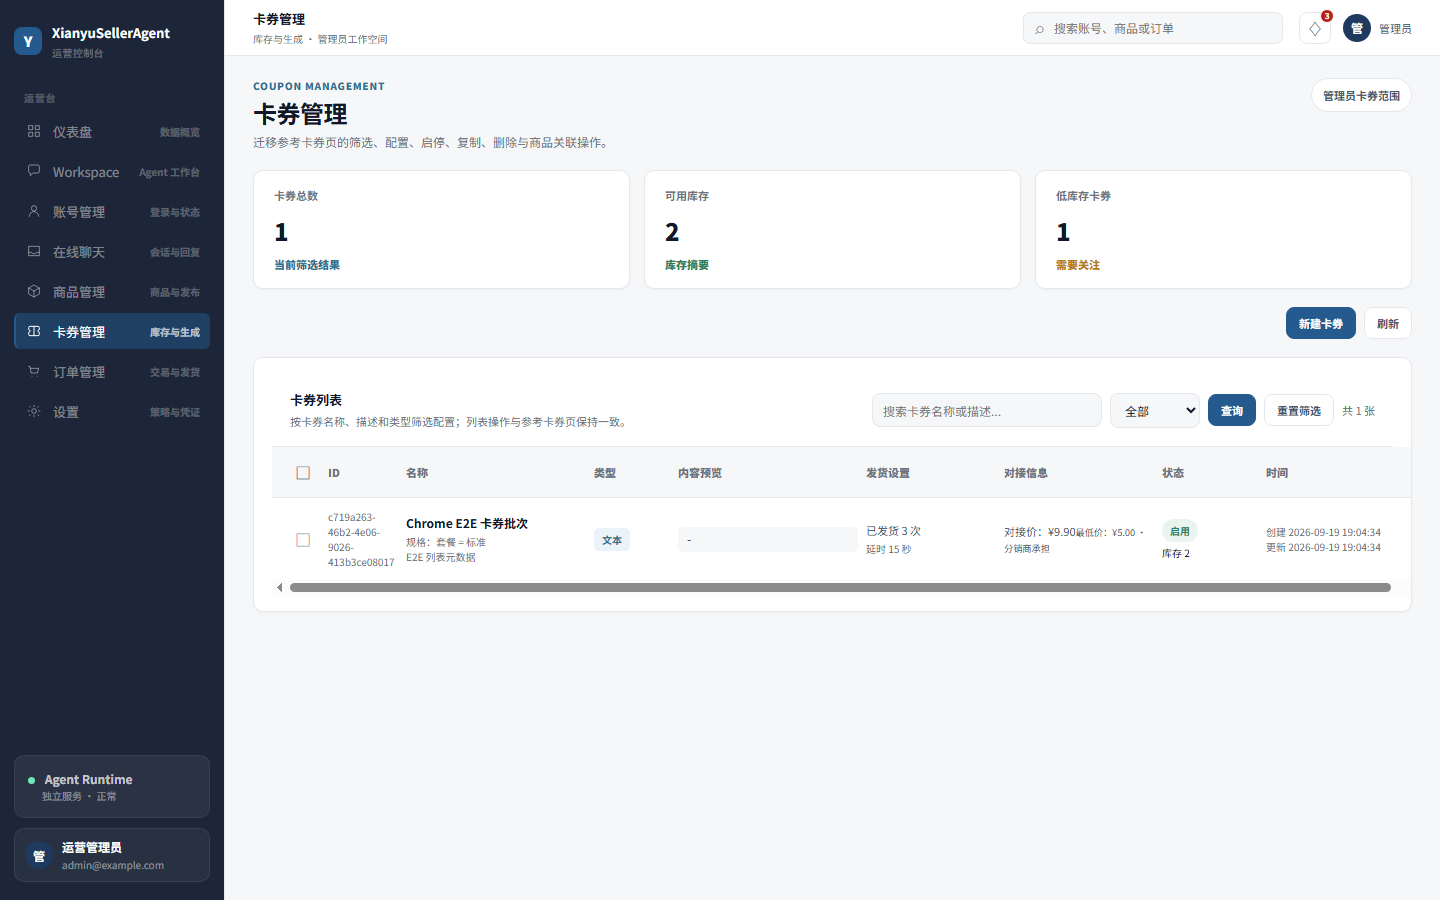
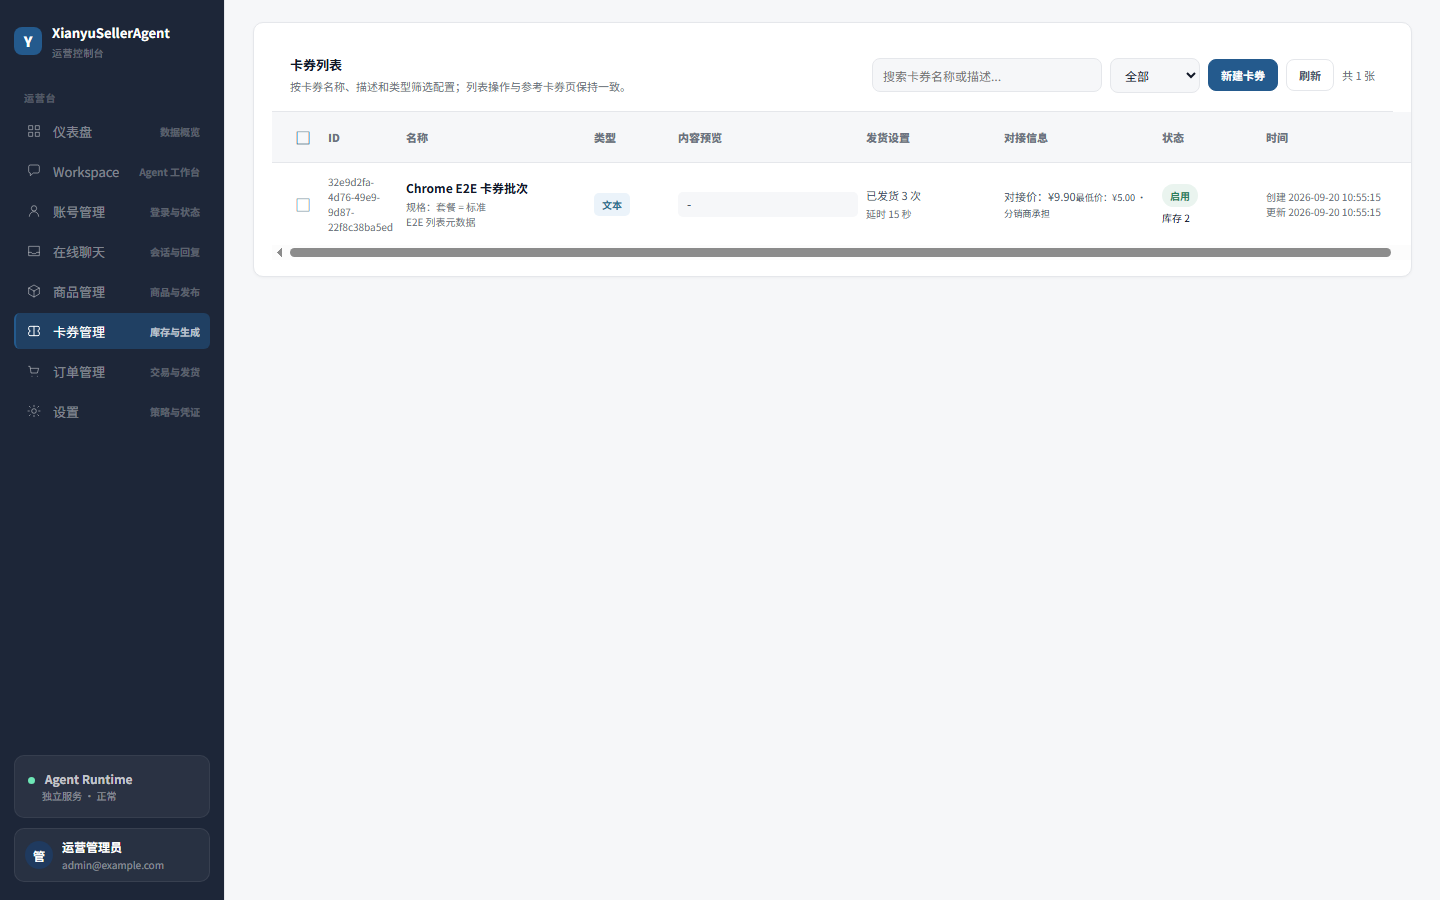
fix(卡券): 调整卡券列表工具栏与页面操作布局

diff --git a/apps/web/src/features/coupons/components/CouponsPage.tsx b/apps/web/src/features/coupons/components/CouponsPage.tsx
@@ -17,8 +17,6 @@ export function CouponsPage({ api: providedApi, productsApi: providedProductsApi
   const api = useMemo(() => providedApi ?? createMockCouponsApi(), [providedApi]);
   const productsApi = useMemo(() => providedProductsApi ?? createMockProductsApi(), [providedProductsApi]);
   const controller = useCouponsController({ api });
-  const [draftKeyword, setDraftKeyword] = useState('');
-  const [draftPurpose, setDraftPurpose] = useState<CouponBatchVM['purpose'] | 'all'>('all');
   const [selectedIds, setSelectedIds] = useState<Set<string>>(new Set());
   const [editor, setEditor] = useState<{ mode: 'create' | 'edit' | 'copy'; batch?: CouponBatchVM } | null>(null);
   const [relationBatch, setRelationBatch] = useState<CouponBatchVM | null>(null);
@@ -26,18 +24,13 @@ export function CouponsPage({ api: providedApi, productsApi: providedProductsApi
   const [imagePreview, setImagePreview] = useState<string | null>(null);
   const batches = controller.state.data?.items ?? [];
   const total = controller.state.data?.total ?? 0;
-  const available = batches.reduce((sum, batch) => sum + batch.availableCount, 0);
-  const lowStock = batches.filter((batch) => batch.stockAlert === 'low_stock').length;
-  const search = () => { controller.setFilters((previous) => ({ ...previous, keyword: draftKeyword.trim() || undefined, purpose: draftPurpose, page: 1 })); setSelectedIds(new Set()); };
-  const reset = () => { setDraftKeyword(''); setDraftPurpose('all'); controller.setFilters((previous) => ({ ...previous, keyword: undefined, purpose: 'all', page: 1 })); setSelectedIds(new Set()); };
   const openEdit = async (batch: CouponBatchVM) => { const detail = await api.getDetail(batch.batchId); setEditor({ mode: 'edit', batch: detail }); };
   const openCopy = async (batch: CouponBatchVM) => { const detail = await api.getDetail(batch.batchId); setEditor({ mode: 'copy', batch: detail }); };
   const openRelation = async (batchId: string, readonly = false) => { const detail = await api.getDetail(batchId); setRelationReadonly(readonly); setRelationBatch(detail); };
   const saveRelation = async (productIds: string[], initialIds: string[]) => { if (!relationBatch) return; const next = new Set(productIds); for (const productId of initialIds) if (!next.has(productId)) await controller.unbindBatch(relationBatch.batchId, productId); for (const productId of productIds) if (!initialIds.includes(productId)) await controller.bindBatch(relationBatch.batchId, productId); const detail = await api.getDetail(relationBatch.batchId); setRelationBatch(detail); setRelationReadonly(false); };
+  const bulkActions = selectedIds.size > 0 && <div className="coupons-bulk-actions">{<button className="btn danger" type="button" onClick={() => { if (window.confirm(`确认删除选中的 ${selectedIds.size} 张卡券？`)) void controller.batchDelete(Array.from(selectedIds)).then(() => setSelectedIds(new Set())); }}>删除选中 ({selectedIds.size})</button>}{selectedIds.size === 1 && <button className="btn ghost" type="button" onClick={() => { const batchId = Array.from(selectedIds)[0]; if (batchId) void openRelation(batchId); }}>关联商品</button>}</div>;
   return <section className="page-stack coupons-domain" data-coupons-domain>
-    <div className="kpi-grid three coupons-kpis"><article className="card kpi-card"><div className="kpi-label">卡券总数</div><div className="kpi-value">{total}</div><div className="kpi-delta"><span className="tone-info">当前筛选结果</span></div></article><article className="card kpi-card"><div className="kpi-label">可用库存</div><div className="kpi-value">{available}</div><div className="kpi-delta"><span className="tone-ok">库存摘要</span></div></article><article className="card kpi-card"><div className="kpi-label">低库存卡券</div><div className="kpi-value">{lowStock}</div><div className="kpi-delta"><span className={lowStock ? 'tone-warn' : 'tone-ok'}>{lowStock ? '需要关注' : '暂无告警'}</span></div></article></div>
-    <div className="coupons-page-actions"><div className="coupons-bulk-actions">{selectedIds.size > 0 && <button className="btn danger" type="button" onClick={() => { if (window.confirm(`确认删除选中的 ${selectedIds.size} 张卡券？`)) void controller.batchDelete(Array.from(selectedIds)).then(() => setSelectedIds(new Set())); }}>删除选中 ({selectedIds.size})</button>}{selectedIds.size === 1 && <button className="btn ghost" type="button" onClick={() => { const batchId = Array.from(selectedIds)[0]; if (batchId) void openRelation(batchId); }}>关联商品</button>}</div><div className="coupons-page-actions-right"><button className="btn primary" type="button" onClick={() => setEditor({ mode: 'create' })}>新建卡券</button><button className="btn ghost" type="button" onClick={() => void controller.reload()} disabled={controller.state.phase === 'loading'}>刷新</button></div></div>
-    <article className="card panel coupons-panel"><CouponToolbar filters={{ ...controller.filters, keyword: draftKeyword, purpose: draftPurpose }} phase={controller.state.phase} total={total} onKeywordChange={setDraftKeyword} onPurposeChange={setDraftPurpose} onSearch={search} onReset={reset} />{controller.state.phase === 'success' && <CouponBatchTable batches={batches} selectedIds={selectedIds} onSelect={(batchId) => setSelectedIds((previous) => { const next = new Set(previous); if (next.has(batchId)) next.delete(batchId); else next.add(batchId); return next; })} onSelectAll={() => setSelectedIds((previous) => batches.every((batch) => previous.has(batch.batchId)) ? new Set() : new Set(batches.map((batch) => batch.batchId)))} onOpen={controller.openBatch} onEdit={(batch) => void openEdit(batch)} onCopy={(batch) => void openCopy(batch)} onBind={(batchId) => void openRelation(batchId)} onToggle={(batch) => { if (batch.status === 'voided') return; void controller.updateBatch(batch.batchId, { status: batch.status === 'active' ? 'paused' : 'active' }); }} onDelete={(batchId) => { if (window.confirm('确认删除该卡券？删除后保留审计历史。')) void controller.deleteBatch(batchId); }} onImagePreview={setImagePreview} />}<CouponListStateView phase={controller.state.phase} error={controller.state.error} onRetry={controller.reload} /></article>
+    <article className="card panel coupons-panel"><CouponToolbar filters={controller.filters} phase={controller.state.phase} total={total} onKeywordChange={(keyword) => { controller.setKeyword(keyword); setSelectedIds(new Set()); }} onPurposeChange={(purpose) => { controller.setFilters((previous) => ({ ...previous, purpose, page: 1 })); setSelectedIds(new Set()); }} onCreate={() => setEditor({ mode: 'create' })} onRefresh={() => void controller.reload()} bulkActions={bulkActions} />{controller.state.phase === 'success' && <CouponBatchTable batches={batches} selectedIds={selectedIds} onSelect={(batchId) => setSelectedIds((previous) => { const next = new Set(previous); if (next.has(batchId)) next.delete(batchId); else next.add(batchId); return next; })} onSelectAll={() => setSelectedIds((previous) => batches.every((batch) => previous.has(batch.batchId)) ? new Set() : new Set(batches.map((batch) => batch.batchId)))} onOpen={controller.openBatch} onEdit={(batch) => void openEdit(batch)} onCopy={(batch) => void openCopy(batch)} onBind={(batchId) => void openRelation(batchId)} onToggle={(batch) => { if (batch.status === 'voided') return; void controller.updateBatch(batch.batchId, { status: batch.status === 'active' ? 'paused' : 'active' }); }} onDelete={(batchId) => { if (window.confirm('确认删除该卡券？删除后保留审计历史。')) void controller.deleteBatch(batchId); }} onImagePreview={setImagePreview} />}<CouponListStateView phase={controller.state.phase} error={controller.state.error} onRetry={controller.reload} /></article>
     <CouponDrawer state={controller.detail} content={controller.content} mutation={controller.mutation} onClose={controller.closeBatch} onRetry={() => controller.detail.batchId && controller.openBatch(controller.detail.batchId)} onImport={async (items) => { if (controller.detail.batchId) await controller.importItems(controller.detail.batchId, items); }} onBind={async (productId) => { if (controller.detail.batchId) await controller.bindBatch(controller.detail.batchId, productId); }} onVoid={async () => { if (controller.detail.batchId) await controller.voidBatch(controller.detail.batchId); }} onPreview={controller.previewContent} />
     {editor && <CouponCreateModal mode={editor.mode} batch={editor.batch} submitting={controller.mutation.phase === 'submitting'} onClose={() => setEditor(null)} onSubmit={async (input) => { if (editor.mode === 'edit' && editor.batch) await controller.updateBatch(editor.batch.batchId, input); else await controller.createBatch(input as Parameters<typeof controller.createBatch>[0]); }} />}
     {relationBatch && <CouponRelationModal batch={relationBatch} productsApi={productsApi} readonly={relationReadonly} submitting={controller.mutation.phase === 'submitting'} onClose={() => { setRelationBatch(null); setRelationReadonly(false); }} onSave={saveRelation} />}

diff --git a/apps/web/src/features/coupons/components/coupons.css b/apps/web/src/features/coupons/components/coupons.css
@@ -1,6 +1,5 @@
 .coupons-domain { min-width: 0; }
 .coupons-domain-scope { align-self: flex-start; padding: 8px 11px; border: 1px solid var(--border); border-radius: 999px; background: #fff; color: var(--muted); font-size: 11px; font-weight: 700; }
-.coupons-kpis { grid-template-columns: repeat(3, minmax(0, 1fr)); }
 .coupons-panel { padding: 0; overflow: hidden; }
 .coupons-copy-notice { margin: 10px 18px 0; padding: 8px 10px; border-radius: 7px; background: var(--success-bg); color: var(--success); font-size: 11px; }
 .coupons-toolbar { display: flex; justify-content: space-between; gap: 16px; align-items: center; padding: 16px 18px; border-bottom: 1px solid var(--border); }
@@ -41,8 +40,7 @@
 .coupons-action-icon:hover { background: var(--soft-blue-bg); }
 .coupons-action-icon.danger { color: var(--danger); }
 .coupons-action-icon svg { width: 15px; height: 15px; fill: none; stroke: currentColor; stroke-width: 1.6; stroke-linecap: round; stroke-linejoin: round; }
-.coupons-page-actions { display: flex; justify-content: space-between; align-items: center; gap: 12px; }
-.coupons-bulk-actions, .coupons-page-actions-right { display: flex; align-items: center; gap: 8px; }
+.coupons-bulk-actions { display: flex; align-items: center; gap: 8px; }
 .coupons-state { display: grid; place-items: center; gap: 6px; min-height: 220px; padding: 28px; color: var(--sub); text-align: center; }
 .coupons-state strong, .coupons-detail-state strong { color: var(--text); font-size: 13px; }
 .coupons-state span, .coupons-detail-state span { font-size: 11px; }
@@ -119,4 +117,4 @@
 .coupons-image-preview { position: relative; max-width: min(92vw, 900px); max-height: 92vh; padding: 12px; }
 .coupons-image-preview .icon-button { position: absolute; top: 8px; right: 8px; z-index: 1; }
 .coupons-image-preview img { display: block; max-width: 86vw; max-height: 84vh; object-fit: contain; border-radius: 8px; }
-@media (max-width: 900px) { .coupons-toolbar { align-items: stretch; flex-direction: column; } .coupons-toolbar-actions { justify-content: stretch; } .coupons-search { flex: 1; } .coupons-search input { width: 100%; } .coupons-kpis { grid-template-columns: 1fr; } .coupons-row { min-width: 1440px; } .coupons-table { min-width: 0; overflow-x: auto; } .coupons-page-actions { align-items: stretch; flex-direction: column; } .coupons-page-actions-right, .coupons-bulk-actions { justify-content: flex-start; flex-wrap: wrap; } .coupons-form-grid { grid-template-columns: 1fr; } .coupons-form-full { grid-column: auto; } .coupons-modal-backdrop { align-items: end; padding: 0; } .coupons-modal { width: 100%; border-radius: 14px 14px 0 0; max-height: 92vh; overflow-y: auto; } .coupons-relation-grid { grid-template-columns: 1fr; max-height: 62vh; overflow-y: auto; } .coupons-relation-pane { min-height: 280px; border-right: 0; border-bottom: 1px solid var(--border); } }
+@media (max-width: 900px) { .coupons-toolbar { align-items: stretch; flex-direction: column; } .coupons-toolbar-actions { justify-content: stretch; } .coupons-search { flex: 1; } .coupons-search input { width: 100%; } .coupons-row { min-width: 1440px; } .coupons-table { min-width: 0; overflow-x: auto; } .coupons-bulk-actions { justify-content: flex-start; flex-wrap: wrap; } .coupons-form-grid { grid-template-columns: 1fr; } .coupons-form-full { grid-column: auto; } .coupons-modal-backdrop { align-items: end; padding: 0; } .coupons-modal { width: 100%; border-radius: 14px 14px 0 0; max-height: 92vh; overflow-y: auto; } .coupons-relation-grid { grid-template-columns: 1fr; max-height: 62vh; overflow-y: auto; } .coupons-relation-pane { min-height: 280px; border-right: 0; border-bottom: 1px solid var(--border); } }

diff --git a/apps/web/src/features/coupons/components/CouponToolbar.tsx b/apps/web/src/features/coupons/components/CouponToolbar.tsx
@@ -1,3 +1,4 @@
+import type { ReactNode } from 'react';
 import type { CouponBatchFilters, CouponBatchVM, CouponsLoadPhase } from '../types';
 
 const types: Array<{ value: CouponBatchVM['purpose'] | 'all'; label: string }> = [
@@ -8,14 +9,15 @@ const types: Array<{ value: CouponBatchVM['purpose'] | 'all'; label: string }> =
   { value: 'image', label: '图片' },
 ];
 
-export function CouponToolbar({ filters, phase, total, onKeywordChange, onPurposeChange, onSearch, onReset }: { filters: CouponBatchFilters; phase: CouponsLoadPhase; total: number; onKeywordChange: (value: string) => void; onPurposeChange: (value: CouponBatchVM['purpose'] | 'all') => void; onSearch: () => void; onReset: () => void }) {
+export function CouponToolbar({ filters, phase, total, onKeywordChange, onPurposeChange, onCreate, onRefresh, bulkActions }: { filters: CouponBatchFilters; phase: CouponsLoadPhase; total: number; onKeywordChange: (value: string) => void; onPurposeChange: (value: CouponBatchVM['purpose'] | 'all') => void; onCreate: () => void; onRefresh: () => void; bulkActions?: ReactNode }) {
   return <div className="coupons-toolbar">
     <div><h2>卡券列表</h2><p>按卡券名称、描述和类型筛选配置；列表操作与参考卡券页保持一致。</p></div>
     <div className="coupons-toolbar-actions">
-      <label className="coupons-search"><span className="sr-only">搜索卡券</span><input aria-label="搜索卡券名称或描述" value={filters.keyword ?? ''} onChange={(event) => onKeywordChange(event.target.value)} onKeyDown={(event) => { if (event.key === 'Enter') onSearch(); }} placeholder="搜索卡券名称或描述..." /></label>
+      <label className="coupons-search"><span className="sr-only">搜索卡券</span><input aria-label="搜索卡券名称或描述" value={filters.keyword ?? ''} onChange={(event) => onKeywordChange(event.target.value)} placeholder="搜索卡券名称或描述..." /></label>
       <label><span className="sr-only">卡券类型</span><select aria-label="卡券类型" value={filters.purpose ?? 'all'} onChange={(event) => onPurposeChange(event.target.value as CouponBatchVM['purpose'] | 'all')}>{types.map((type) => <option key={type.value} value={type.value}>{type.label}</option>)}</select></label>
-      <button className="btn primary" type="button" onClick={onSearch} disabled={phase === 'loading'}>查询</button>
-      <button className="btn ghost" type="button" onClick={onReset}>重置筛选</button>
+      <button className="btn primary" type="button" onClick={onCreate}>新建卡券</button>
+      <button className="btn ghost" type="button" onClick={onRefresh} disabled={phase === 'loading'}>刷新</button>
+      {bulkActions}
       <span className="coupons-total">共 {total} 张</span>
     </div>
   </div>;

diff --git a/apps/web/src/features/coupons/components/CouponToolbar.test.tsx b/apps/web/src/features/coupons/components/CouponToolbar.test.tsx
@@ -1,0 +1,26 @@
+import { renderToStaticMarkup } from 'react-dom/server';
+import { describe, expect, it, vi } from 'vitest';
+import { CouponToolbar } from './CouponToolbar';
+
+describe('CouponToolbar', () => {
+  it('renders the compact list actions without redundant search buttons', () => {
+    const html = renderToStaticMarkup(
+      <CouponToolbar
+        filters={{ page: 1, pageSize: 20, keyword: '', purpose: 'all' }}
+        phase="success"
+        total={2}
+        onKeywordChange={vi.fn()}
+        onPurposeChange={vi.fn()}
+        onCreate={vi.fn()}
+        onRefresh={vi.fn()}
+      />,
+    );
+
+    expect(html).toContain('搜索卡券名称或描述');
+    expect(html).toContain('卡券类型');
+    expect(html).toContain('新建卡券');
+    expect(html).toContain('刷新');
+    expect(html).not.toContain('查询');
+    expect(html).not.toContain('重置筛选');
+  });
+});

diff --git a/docs/evidence/stage5/S4-VS3/test-baseline.md b/docs/evidence/stage5/S4-VS3/test-baseline.md
@@ -5,11 +5,18 @@
 - 分支：`feature/s4-vs3-coupons`
 - 当前门禁：`READY_FOR_REVIEW`，等待人工审核后再合入 `master`
 
+## 2026-09-20 工具栏修订
+
+- 本次修订 worktree：`F:\ChenHai\Project\XianYuAgent-coupons-toolbar`；分支：`fix/coupons-toolbar`。
+- 移除卡券首页顶部 KPI 卡片，将新建、刷新及选中后的批量操作并入列表工具栏。
+- 搜索与类型筛选改为变更即生效，移除“查询”和“重置筛选”按钮。
+- 回归证据：`CouponToolbar.test.tsx`、Coupons Chrome/CDP E2E，以及 `1440×900` / `390×844` 截图。
+
 ## 用户路径
 
 真实浏览器从 `/coupons` 进入卡券首页，经 AuthGate 使用真实 Session Cookie 访问真实 API，完成：
 
-1. 卡券列表、搜索/重置、类型筛选、库存统计、低库存告警和状态展示；
+1. 卡券列表、搜索、类型筛选、库存/告警列和状态展示；
 2. 当前页全选、批量删除，以及单选后的商品关联入口；
 3. 新建、编辑、复制配置，启用/禁用和软删除；
 4. 打开详情抽屉，导入库存，绑定/解绑商品；
@@ -49,6 +56,7 @@ local Chrome E2E passed: coupons list -> detail -> preview/copy -> import -> bin
 - 桌面代表数据验证了备注、多规格、延时发货、已发货次数、对接价、最低价和费用承担方等表格列不是 fallback 文案。
 - 列表不返回卡券正文，只展示受控正文占位、库存数量、绑定数量、告警和状态。
 - 正文只有在详情抽屉通过受控 content API 返回后展示，并提供复制动作；访问审计引用可见。
+- 卡券首页不再展示独立 KPI 卡片；列表工具栏统一承载搜索、筛选、新建、刷新及条件批量操作。
 - loading、empty、error、403、submitting 和 conflict 分支由状态边界/错误映射覆盖；本轮截图以成功态为主，完整逐状态视觉回归仍留给人工复核。
 
 ## 人工浏览器审核步骤
@@ -58,7 +66,7 @@ local Chrome E2E passed: coupons list -> detail -> preview/copy -> import -> bin
 3. 执行 `npm run dev`。该命令使用真实 PostgreSQL/Redis/MinIO，`ALLOW_IN_MEMORY=false`，不是 MemoryStore smoke。
 4. 用 Chrome 打开 `http://localhost:5173/coupons`；已有管理员直接登录，没有管理员先完成初始化。
 5. 固定审核 viewport：桌面 `1440×900`，移动 `390×844`。
-6. 逐项检查：搜索/重置/类型筛选；当前页全选与批量删除；单选关联商品；新建/编辑/复制；启用/禁用；双栏关联保存/移除；图片原图预览；详情、库存导入、正文预览/复制；作废后刷新状态保持；移动端横向表格滚动。
+6. 逐项检查：搜索/类型筛选、工具栏新建/刷新；当前页全选与批量删除；单选关联商品；新建/编辑/复制；启用/禁用；双栏关联保存/移除；图片原图预览；详情、库存导入、正文预览/复制；作废后刷新状态保持；移动端横向表格滚动。
 7. 记录异常态和截图。人工审核通过前，保持 `READY_FOR_REVIEW`，不要合入 `master`。
 
 ## 明确未覆盖项

diff --git a/docs/agent-worktree-registry.md b/docs/agent-worktree-registry.md
@@ -34,6 +34,7 @@
 
 | `root` | `products-pagination` | `fix/products-pagination` | `F:\ChenHai\Project\XianYuAgent-products-pagination` | Codex `/root` | `2026-09-20 00:00:00 +08:00` | `CLEANED` | `3219f85f10cc151dd2761afa066a2ee60be8580f` | `2026-09-20 18:04:00 +08:00` | 已在 merge lock 内合入并完成主线 typecheck、Web 79 项测试、构建与商品 Chrome E2E；API smoke 仍受 127.0.0.1:18872 端口占用阻塞。Git worktree 元数据与分支已清理，目录因含非 Git 内容保留。 |
 | `root` | `products-columns` | `fix/products-columns` | `F:\ChenHai\Project\XianYuAgent-products-columns` | Codex `/root` | `2026-09-20 18:38:05 +08:00` | `CLEANED` | `19763b8e543e986d0d6b691f1a4d344a1f9f3eaf` | `2026-09-20 18:48:19 +08:00` | 六列表格、闲鱼创建/更新时间排序与关联卡券展示；双端类型检查、单测、构建与商品 Chrome E2E 已通过。Git worktree 元数据与分支已清理，目录因含非 Git 内容保留。 |
+| `root` | `coupons-toolbar` | `fix/coupons-toolbar` | `F:\ChenHai\Project\XianYuAgent-coupons-toolbar` | Codex `/root` | `2026-09-20 18:51:55 +08:00` | `READY_FOR_MERGE` | `-` | `-` | 用户已明确授权直接合入 master；卡券首页移除 KPI 卡片，统一列表工具栏操作并移除查询/重置按钮；typecheck、Vitest、build、Chrome/CDP E2E 已通过。 |
 
 ## 主工作区
 
